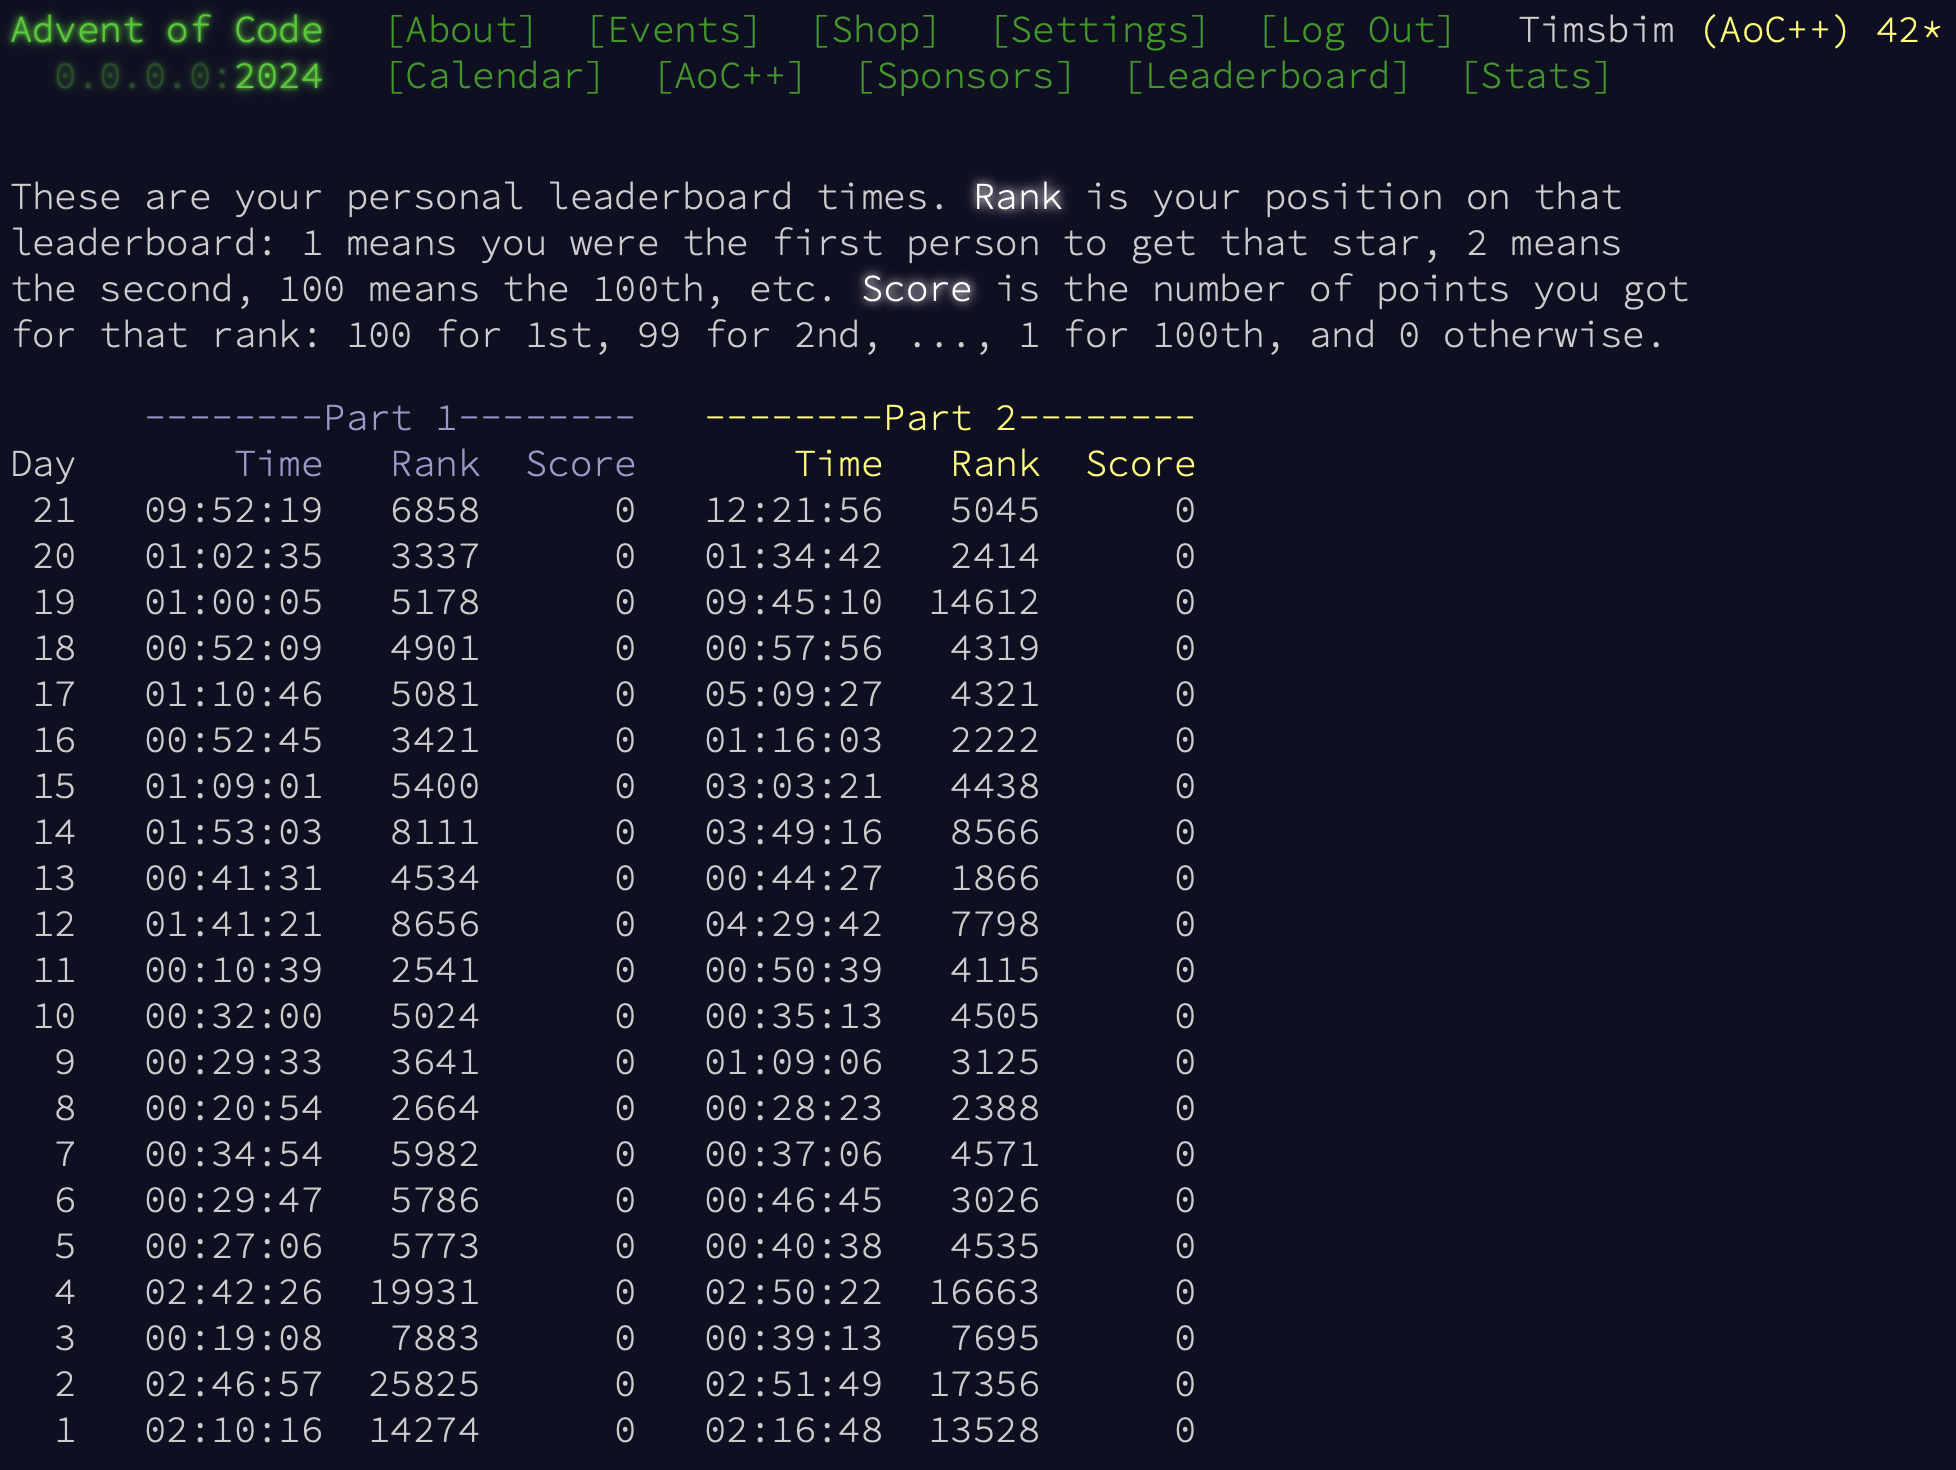
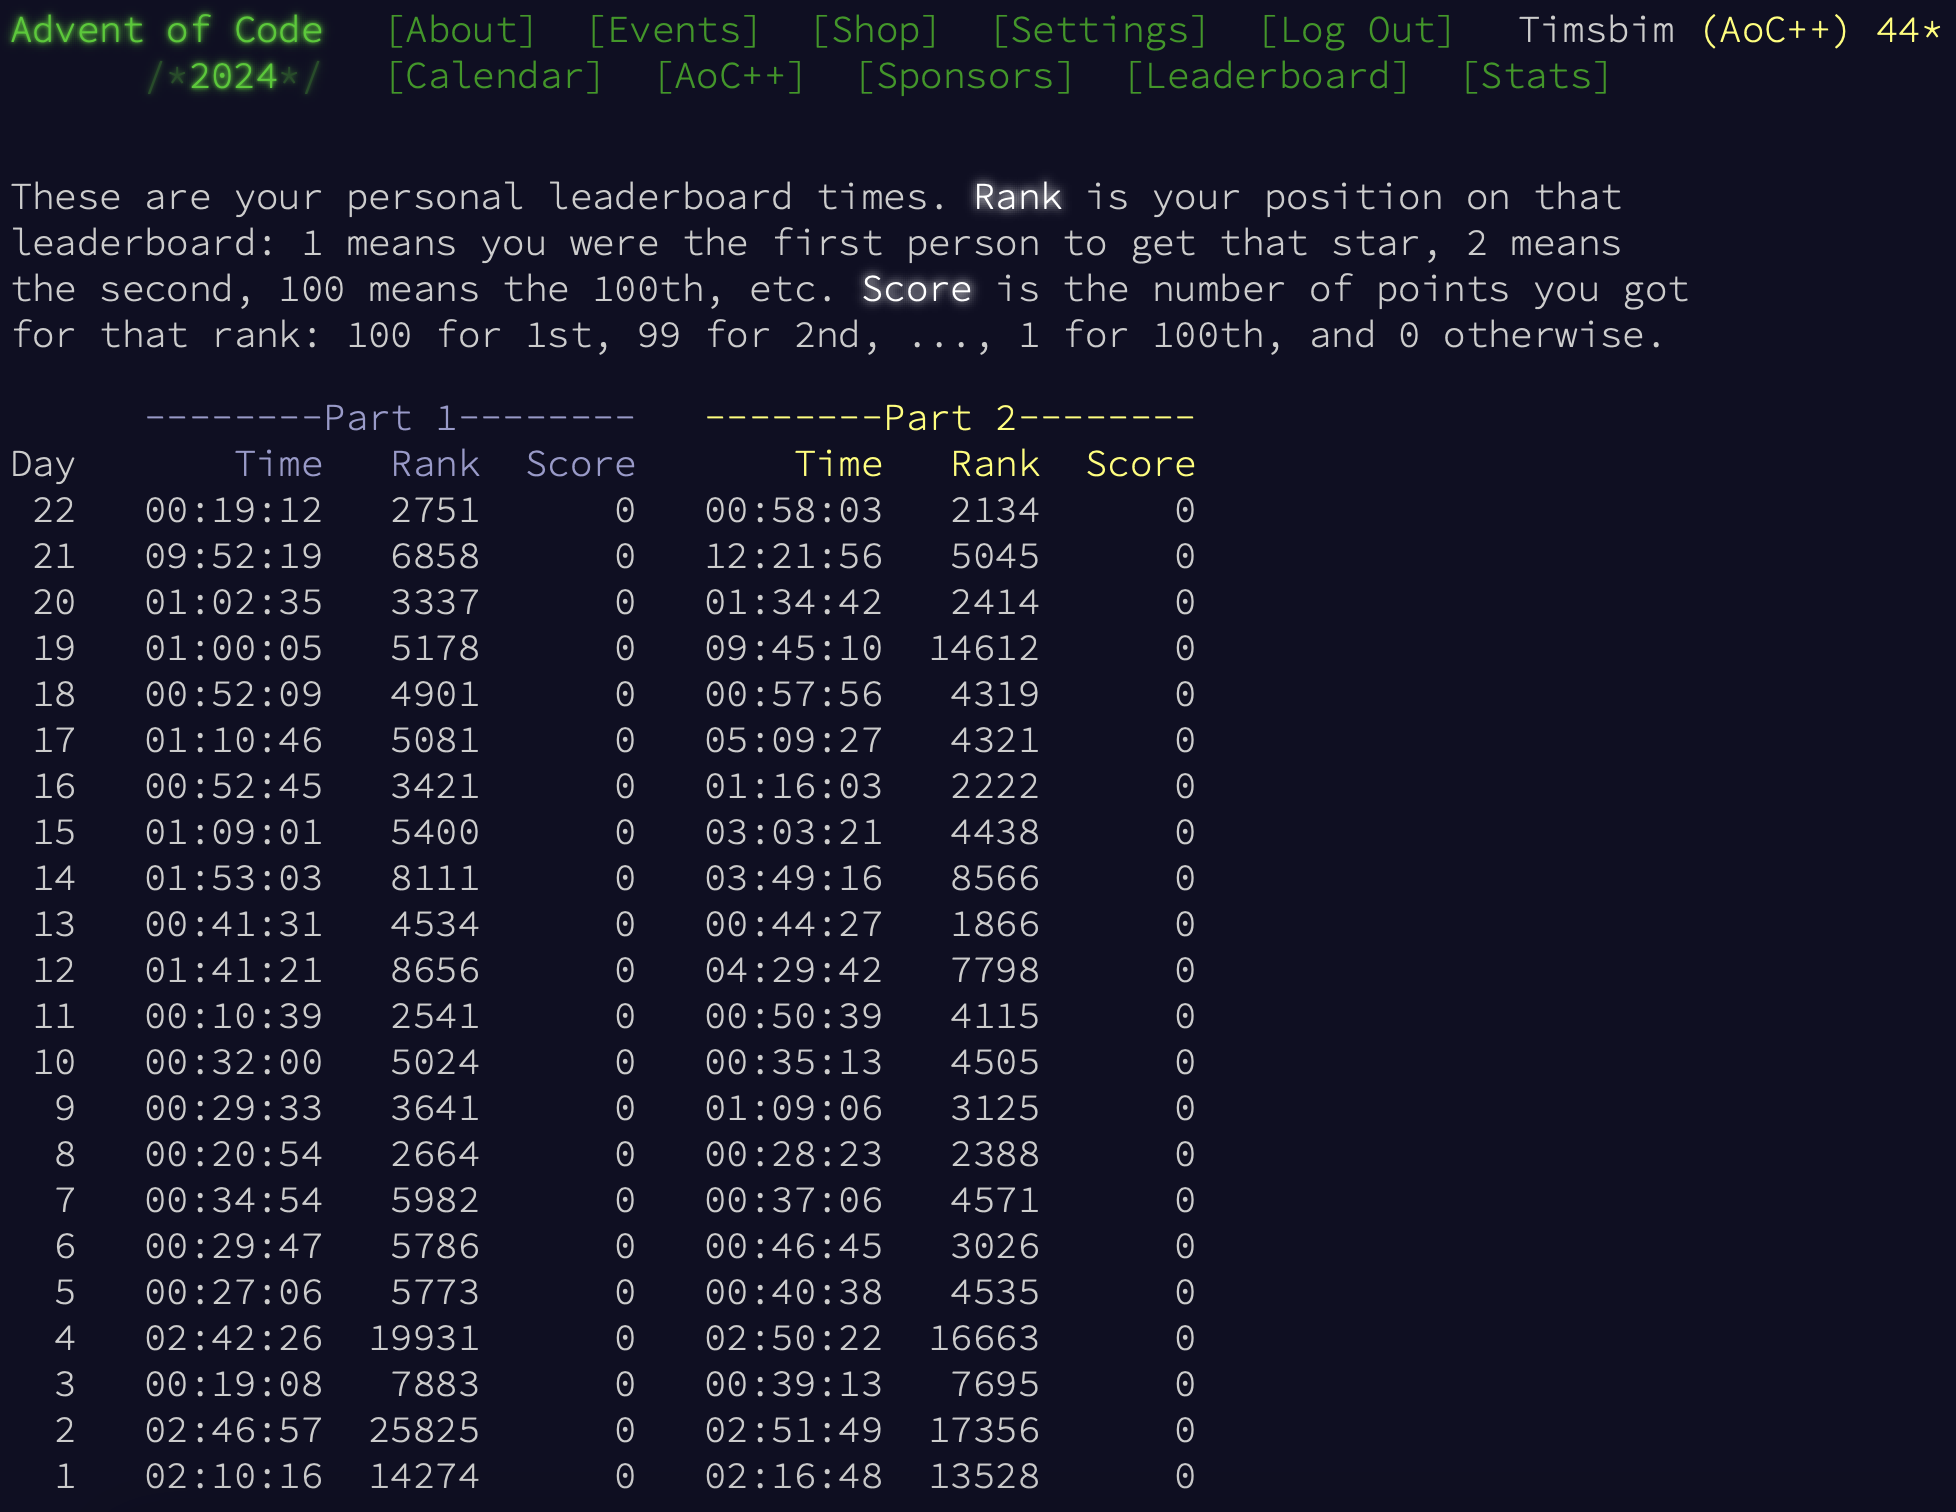
Update day 22

diff --git a/run_all.py b/run_all.py
@@ -907,7 +907,6 @@ def day_21():
     }
     NUMPAD = {}
     for (r0, c0), (r1, c1) in combinations(NUM, 2):
-        if r0 == r1 and c0 == c1: continue
         k0, k1 = NUM[r0, c0], NUM[r1, c1]
         dr, dc = r1 - r0, c1 - c0
         ver = "^" * abs(dr) if dr < 0 else "v" * dr
@@ -986,6 +985,44 @@ def day_21():
     assert solution_2 == (154115708116294 if EXAMPLE else 189235298434780)
 
 
+def day_22():
+    print("Day 22:")
+
+    file_name = f"2024/input/day_22{'_example' if EXAMPLE else ''}.txt"
+    with open(file_name, "r") as file:
+        SECRETS = tuple(int(line.rstrip()) for line in file)
+    PRUNE = 16777216
+    
+
+    def next_secret(secret):
+        secret = ((secret * 64) ^ secret) % PRUNE
+        secret = ((secret // 32) ^ secret) % PRUNE
+        return ((secret * 2048) ^ secret) % PRUNE
+
+
+    solution_1, bananas = 0, {}
+    for secret in SECRETS:
+        price, prices, changes = secret % 10, [], []
+        for _ in range(2_000):
+            secret = next_secret(secret)
+            price_new = secret % 10
+            changes.append(price_new - price)
+            prices.append(price_new)
+            price = price_new
+        solution_1 += secret
+        candidates = set()
+        for i in range(3, 2_000):
+            sequence = tuple(changes[i-3:i+1])
+            if sequence in candidates: continue
+            candidates.add(sequence)
+            bananas[sequence] = bananas.get(sequence, 0) + prices[i]    
+
+    print(f"  - part 1:", solution_1)
+    print(f"  - part 2:", max(bananas.values()))
+    assert solution_1 == (37327623 if EXAMPLE else 20068964552)
+    assert max(bananas.values()) == (24 if EXAMPLE else 2246)
+
+
 days = {
     1: day_1,
     2: day_2,
@@ -1007,7 +1044,8 @@ days = {
     18: day_18,
     19: day_19,
     20: day_20,
-    21: day_21
+    21: day_21,
+    22: day_22
 }
 
 

diff --git a/day_22.py b/day_22.py
@@ -1,0 +1,36 @@
+print("Day 22")
+EXAMPLE = False
+
+file_name = f"2024/input/day_22{'_example' if EXAMPLE else ''}.txt"
+with open(file_name, "r") as file:
+    SECRETS = tuple(int(line.rstrip()) for line in file)
+PRUNE = 16777216
+    
+
+def next_secret(secret):
+    secret = ((secret * 64) ^ secret) % PRUNE
+    secret = ((secret // 32) ^ secret) % PRUNE
+    return ((secret * 2048) ^ secret) % PRUNE
+
+
+solution_1, bananas = 0, {}
+for secret in SECRETS:
+    price, prices, changes = secret % 10, [], []
+    for _ in range(2_000):
+        secret = next_secret(secret)
+        price_new = secret % 10
+        changes.append(price_new - price)
+        prices.append(price_new)
+        price = price_new
+    solution_1 += secret
+    candidates = set()
+    for i in range(3, 2_000):
+        sequence = tuple(changes[i-3:i+1])
+        if sequence in candidates: continue
+        candidates.add(sequence)
+        bananas[sequence] = bananas.get(sequence, 0) + prices[i]    
+
+print("Part 1:", solution_1)
+print("Part 2:", max(bananas.values()))
+assert solution_1 == (37327623 if EXAMPLE else 20068964552)
+assert max(bananas.values()) == (24 if EXAMPLE else 2246)

diff --git a/glue_all.py b/glue_all.py
@@ -10,7 +10,7 @@ re_imports = re.compile(r"^import\s+(.+)\s*$", re.M)
 re_from = re.compile(r"^from\s+(\S+)\s+import\s+(.+)$", re.M)
 re_example = re.compile(r"^\s*EXAMPLE\s+=\s+(True|False)\s*$", re.M)
 re_print_day = re.compile(r'^\s*print\("Day\s+\d+', re.M)
-re_print_result = re.compile(r'print\(f"Part ')
+re_print_result = re.compile(r'print\(f?"Part ')
 
 days, modules = {}, set()
 partials = {"argparse": {"ArgumentParser"}, "time": {"perf_counter"}}
